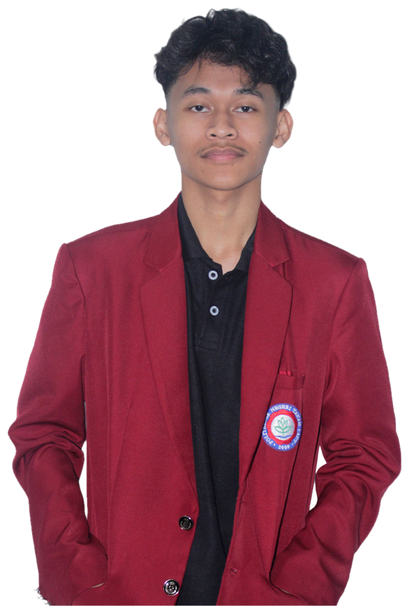
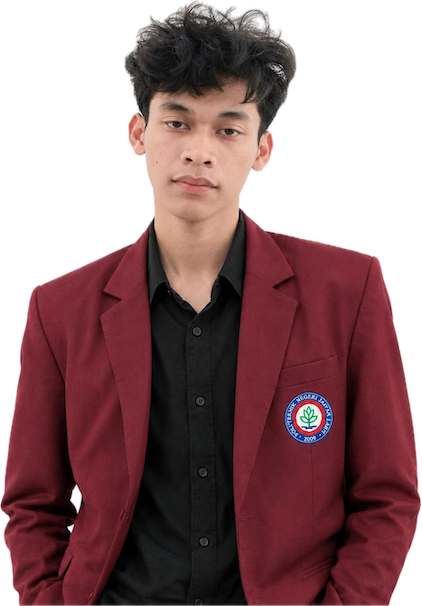
fix(web): label sumber chat jujur + foto baru Eka
- ChatAsisten: label 'heuristik' tidak lagi selalu "AI lokal tidak tersedia";
  tambah label untuk sumber 'sapaan'
- Foto tim Eka diganti (latar dihapus, PNG transparan 422x606)

diff --git a/react-web-app/src/components/ChatAsisten.tsx b/react-web-app/src/components/ChatAsisten.tsx
@@ -37,7 +37,8 @@ const PINTASAN = [
 ]
 
 const SUMBER: Record<string, string> = {
-  heuristik: 'Jawaban aturan (AI lokal tidak tersedia)',
+  heuristik: 'Saran berbasis aturan dari data terbaru',
+  sapaan: 'Asisten GARAP',
   diagnosa: 'Diagnosa otomatis dari database',
   data: 'Data langsung dari database',
   tolak: 'Permintaan ditolak oleh pengaman',
